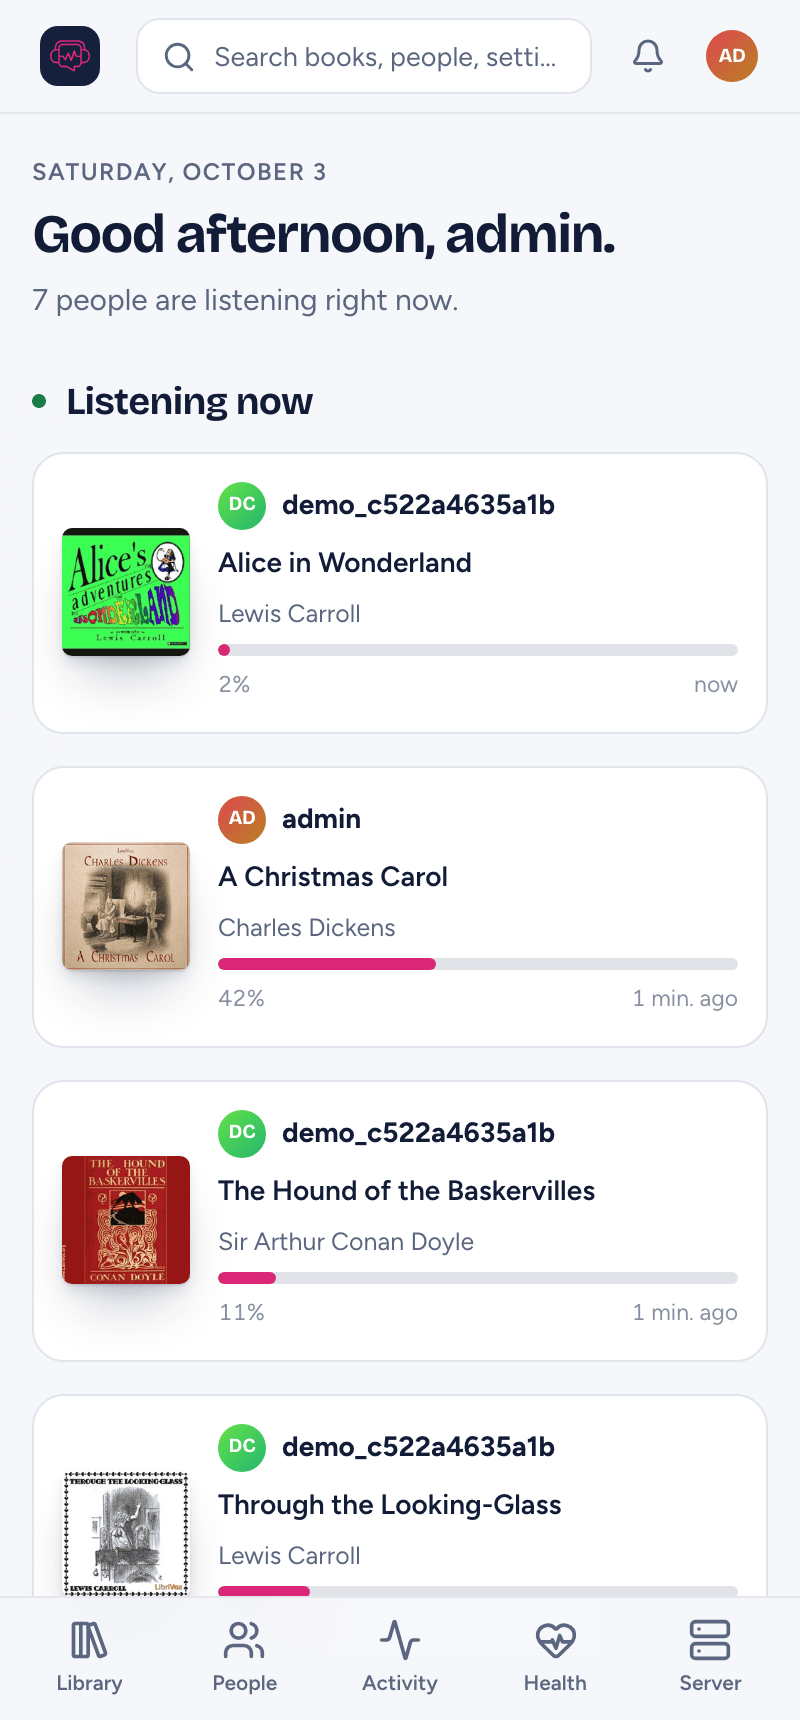
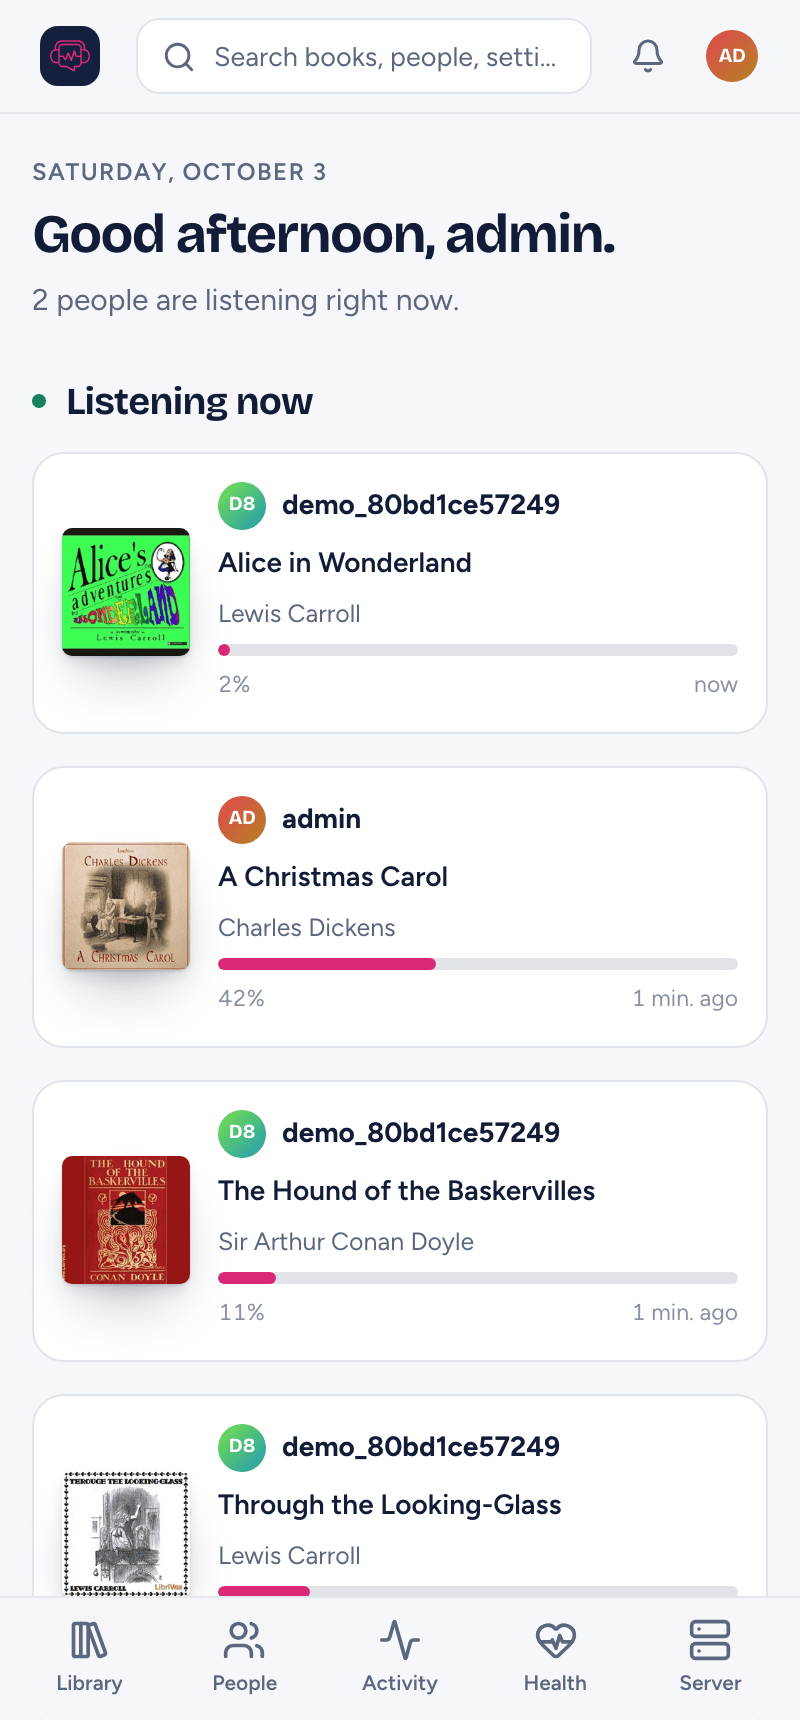
Simplify pass: one admin console build script, leaner capture script
- run.sh and the docs call audiosilo-server/scripts/build-admin.sh
  instead of spelling out the npm steps.
- capture-admin.mjs reuses the admin token for the listening seed and
  carries the session into the phone context via storageState.
- Recaptured admin-next/ shots (listener count now counts people).

diff --git a/docs-developers/contributing/gates-and-ci.md b/docs-developers/contributing/gates-and-ci.md
@@ -15,14 +15,14 @@ frontend change, and remember that green CI in one repo says nothing about the
 
 ```sh
 cd ~/dev/audiosilo/audiosilo-server
-npm --prefix admin-ui ci && npm --prefix admin-ui run check   # the admin console (Node 24)
-npm --prefix admin-ui run build                               # so the embed tests see a real build
+scripts/build-admin.sh   # the admin console (Node 24): npm ci + check + build
 go build ./... && go vet ./... && go test -race ./... && golangci-lint run
 ```
 
-`npm --prefix admin-ui run check` is the redesigned admin console's gate:
-`tsc -b`, ESLint (including the CSP guard rules), `prettier --check` and Vitest.
-Skip the two npm lines only when `admin-ui/` is untouched; without a build,
+`scripts/build-admin.sh` is the redesigned admin console's gate: `npm ci`, then
+`npm run check` (`tsc -b`, ESLint including the CSP guard rules,
+`prettier --check`, Vitest), then the build, which itself fails on any CSP
+violation. Skip it only when `admin-ui/` is untouched; without a build,
 `internal/web/adminui`'s `TestEmbeddedBuild` skips instead of checking the
 embedded console.
 
@@ -54,7 +54,7 @@ Every workflow across the three repos, verified against
 
 | Workflow | Name | Triggers | What it does |
 |---|---|---|---|
-| `ci.yml` | `ci` | every PR; push to `main` | Job **test**: Go from `go.mod`, Node from `admin-ui/.nvmrc` and the admin console's `npm ci` + `npm run check` + `npm run build` (before the Go steps, so the embed tests see a real build), installs ffmpeg (so the ffprobe-dependent scanner tests stay live), `go build ./...`, `go vet ./...`, `go test -race -coverprofile=coverage.out ./...`, uploads the coverage artifact. Job **lint**: `golangci-lint-action@v8` (golangci-lint v2, config `.golangci.yml`). |
+| `ci.yml` | `ci` | every PR; push to `main` | Job **test**: Go from `go.mod`, Node from `admin-ui/.nvmrc` and `scripts/build-admin.sh` (before the Go steps, so the embed tests see a real build), installs ffmpeg (so the ffprobe-dependent scanner tests stay live), `go build ./...`, `go vet ./...`, `go test -race -coverprofile=coverage.out ./...`, uploads the coverage artifact. Job **lint**: `golangci-lint-action@v8` (golangci-lint v2, config `.golangci.yml`). |
 | `image.yml` | `server image` | `v*` tags; manual dispatch (input `web_version`) | Builds the Docker image, baking the pinned web player in via the `WEB_IMAGE` build-arg, and pushes `ghcr.io/<owner>/audiosilo-server` (semver + sha + `latest` tags). See [releasing](releasing.md). |
 | `release.yml` | `release (native binaries)` | `v*` tags; manual dispatch (input `web_version`) | GoReleaser: cross-platform native binaries with the web player embedded (`-tags embedplayer`), published as a **draft** GitHub Release. |
 
@@ -69,7 +69,7 @@ Every workflow across the three repos, verified against
 
 | Workflow | Name | Triggers | What it does |
 |---|---|---|---|
-| `ci.yml` | `CI` | every PR; push to `main` | Job **go**: checks out `KodeStar/audiosilo-server@main` **as a sibling** (the `replace` directive needs it), builds the server's admin console (`npm --prefix audiosilo-server/admin-ui ci` + `run build`, so the embedded server ships it), then `go build ./...`, `go vet ./...`, `go test -race ./...`, plus `golangci-lint-action@v6`. Job **frontend**: `npm ci`, `npx tsc --noEmit`, `npm run lint`, `npm run format`, `npm test` in `frontend/`. |
+| `ci.yml` | `CI` | every PR; push to `main` | Job **go**: checks out `KodeStar/audiosilo-server@main` **as a sibling** (the `replace` directive needs it), then `go build ./...`, `go vet ./...`, `go test -race ./...`, plus `golangci-lint-action@v6`. Job **frontend**: `npm ci`, `npx tsc --noEmit`, `npm run lint`, `npm run format`, `npm test` in `frontend/`. |
 | `desktop.yml` | `Desktop build` | `v*` tags; manual dispatch | Native-runner matrix (macOS `darwin/universal`, Windows `windows/amd64`, Linux `linux/amd64` - a webview UI can't cross-compile): installs the Wails CLI, `wails build` with the version injected via ldflags, uploads `build/bin/*` as workflow artifacts. Signing/notarization steps are stubbed pending certificates. |
 
 ### audiosilo-meta

diff --git a/docs-developers/server/web-ui.md b/docs-developers/server/web-ui.md
@@ -116,14 +116,15 @@ Mono).
   `dist/.gitkeep` is committed (the rest is gitignored), so a plain
   `go build` without Node still compiles - and `/admin` then answers **503**
   with a short "console not built" page that says how to build it.
-- **CI** (`ci.yml`) installs Node 24 and runs `npm ci`, `npm run check` and
-  `npm run build` **before** the Go steps, so `TestEmbeddedBuild` checks the
+- `scripts/build-admin.sh` is the one recipe (`npm ci`, `npm run check`, `npm
+  run build`; `--build-only` skips the check). **CI** (`ci.yml`) runs it
+  **before** the Go steps, so `TestEmbeddedBuild` checks the
   real embedded `index.html` (it skips locally when nothing is built). The
   **Dockerfile** has a `node:24-alpine` stage that builds the console and
-  copies `dist` in before `go build`; **GoReleaser** runs the same two npm
-  commands as before-hooks. `scripts/build-admin.sh` does it locally.
-- The **desktop manager** embeds the server, so its `ci.yml` and `desktop.yml`
-  build `../audiosilo-server/admin-ui` first (see
+  copies `dist` in before `go build`; **GoReleaser** runs the script as a
+  before-hook. The build fails on any CSP violation (a Vite plugin).
+- The **desktop manager** embeds the server, so its `desktop.yml` runs the
+  script from the sibling checkout before `wails build` (see
   [Manager server integration](../manager/server-integration.md)).
 - `go.mod` carries `ignore ./admin-ui/node_modules`: some npm packages ship
   Go source, which `./...` would otherwise build, vet, test and lint.
@@ -151,7 +152,7 @@ The console runs under the same `script-src 'self'; style-src 'self'` policy
 
 - `index.html` loads only files: `/admin/theme-init.js` (applies the stored
   light/dark/system theme before first paint) and the Vite bundle.
-  `admin-ui/scripts/check-csp.mjs` fails `npm run build` on any inline
+  `admin-ui/scripts/check-csp.mjs` (a Vite plugin) fails the build on any inline
   `<script>`, `<style>`, `style=""` or `on*=""` attribute, and the Go test
   applies the same check to the embedded build.
 - Base UI renders under `<CSPProvider disableStyleElements>`; the one rule it

diff --git a/docs-developers/manager/server-integration.md b/docs-developers/manager/server-integration.md
@@ -161,9 +161,8 @@ Consequences:
   [Gates and CI](../contributing/gates-and-ci.md)).
 - **Build the server's admin console first.** The embedded server embeds its
   admin console from `internal/web/adminui/dist`, which is built, never
-  committed. Run `npm --prefix ../audiosilo-server/admin-ui ci && npm --prefix
-  ../audiosilo-server/admin-ui run build` before `wails build`/`wails dev` (CI
-  and `desktop.yml` do); otherwise the manager's local server answers `/admin`
+  committed. Run `../audiosilo-server/scripts/build-admin.sh --build-only`
+  before `wails build`/`wails dev` (`desktop.yml` does); otherwise the manager's local server answers `/admin`
   with a "console not built" page.
 - **Stale-checkout failure mode.** The build compiles against whatever the
   sibling checkout contains. If your local server checkout predates a symbol the

diff --git a/docs-developers/contributing/releasing.md b/docs-developers/contributing/releasing.md
@@ -73,8 +73,8 @@ amd64/arm64 all cross-compile from one Linux runner.
   `scripts/fetch-web-player.sh` populates `internal/web/player/` from the pinned
   web image (the `WEB_IMAGE` env, defaulting to `:latest`, overridable via the
   dispatch input) - so `/web` works with no `web_dir`.
-- **Admin console embedded:** before-hooks run `npm --prefix admin-ui ci` and
-  `npm --prefix admin-ui run build` (the build output is never committed), so
+- **Admin console embedded:** a before-hook runs `scripts/build-admin.sh
+  --build-only` (the build output is never committed), so
   every binary carries the console under `internal/web/adminui`.
 - **ffmpeg/ffprobe are NOT bundled** (large, usually present). At runtime the
   server prefers a local copy (explicit flag → next to the binary → `$PATH`) and

diff --git a/docs-developers/architecture/release-pipeline.md b/docs-developers/architecture/release-pipeline.md
@@ -105,9 +105,8 @@ CGO-free (modernc SQLite), so everything cross-compiles with no C toolchain:
 
 ### Embedding the admin console
 
-The admin console's build output is never committed, so GoReleaser's `before`
-hooks also run `npm --prefix admin-ui ci` and `npm --prefix admin-ui run build`
-(`release.yml` sets up Node from `admin-ui/.nvmrc`). Every native binary embeds
+The admin console's build output is never committed, so a GoReleaser `before`
+hook also runs `scripts/build-admin.sh --build-only` (`release.yml` sets up Node from `admin-ui/.nvmrc`). Every native binary embeds
 it; skipping the hooks produces a binary whose `/admin` serves a "console not
 built" page.
 

diff --git a/docs-developers/server/overview.md b/docs-developers/server/overview.md
@@ -234,6 +234,6 @@ Every feature ships with a test (see
 Full gate, run from the repo root before calling any change done:
 
 ```sh
-npm --prefix admin-ui ci && npm --prefix admin-ui run check && npm --prefix admin-ui run build
+scripts/build-admin.sh   # admin console: npm ci + check + build (when admin-ui/ changed)
 go build ./... && go vet ./... && go test -race ./... && golangci-lint run
 ```
